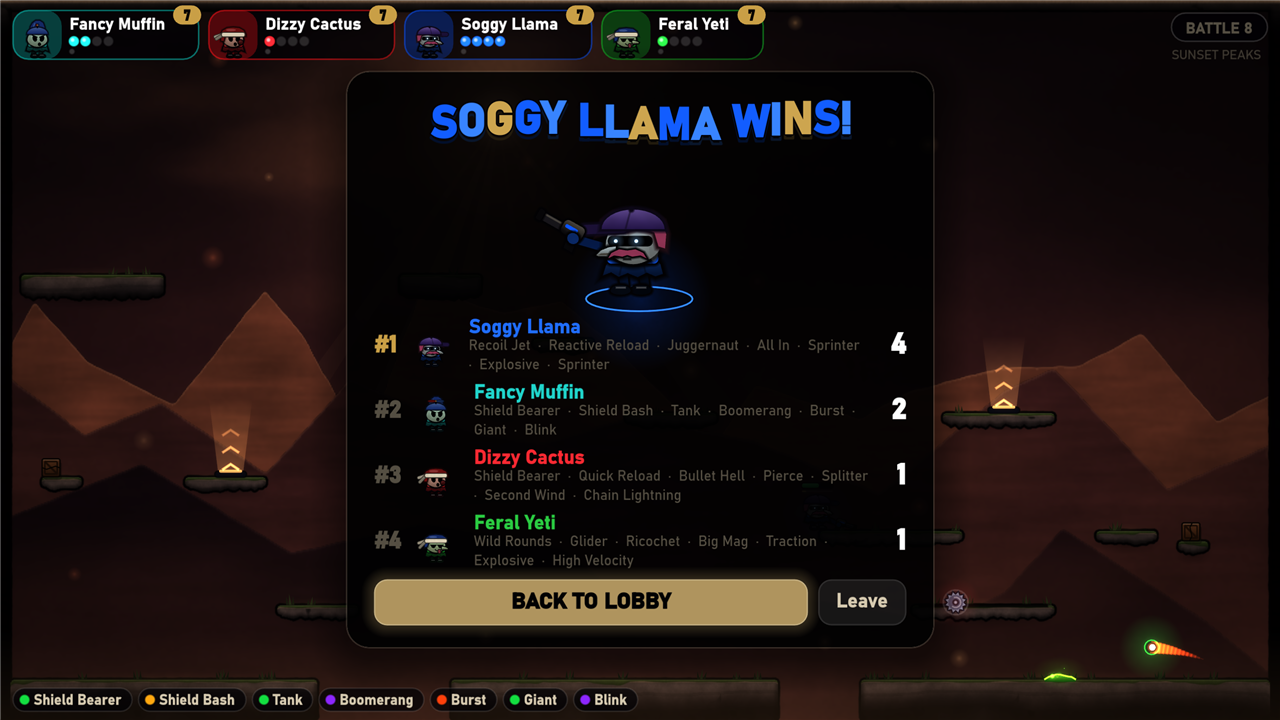
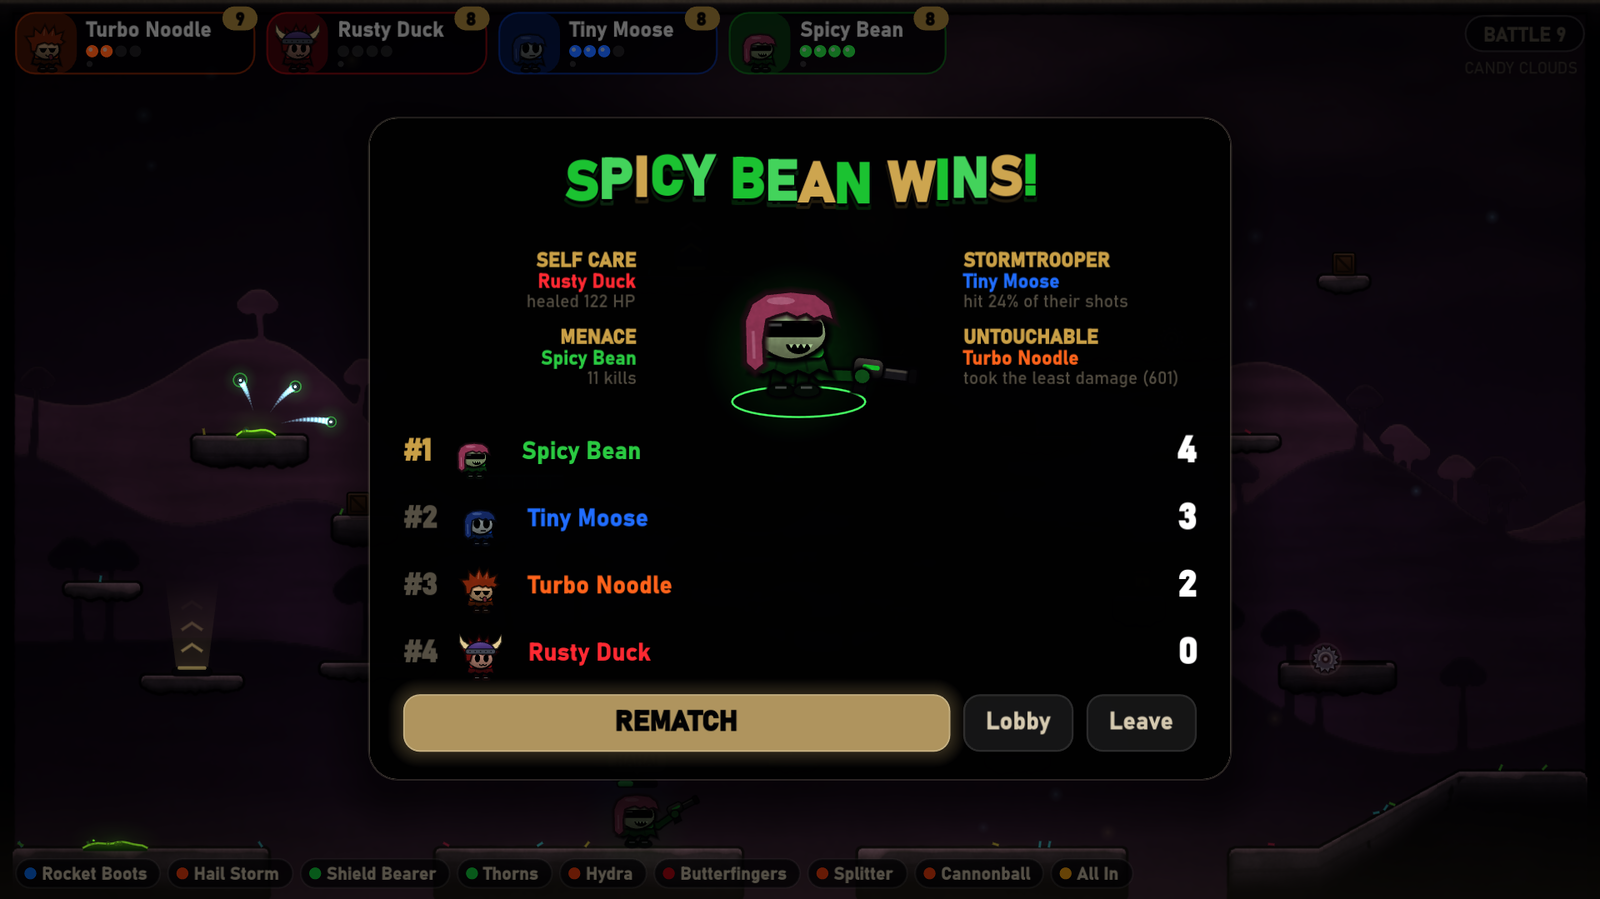
Refresh the README media: new gallery with kill cam, game modes, cursed deal and lobby

diff --git a/README.md b/README.md
@@ -3,16 +3,22 @@
 A ROUNDS-style 2–8 player platform shooter: lose a round, pick a card, come back stronger.
 Godot 4.7 (.NET / C#), LAN or direct-IP multiplayer, bots, procedurally generated themed arenas, and effects that get flashier the more cards you hold.
 
-<p align="center"><img src="docs/media/chaos.gif" alt="Four players trading homing, bouncing and exploding shots late in a match" width="720"></p>
+<p align="center"><img src="docs/media/chaos.gif" alt="Four players trading split, bouncing and exploding shots late in a match in Candy Clouds" width="720"></p>
 
 | | |
 |---|---|
-| <img src="docs/media/battle.gif" alt="An early battle in the Deep Reef arena"> | <img src="docs/media/card-pick.gif" alt="Picking a card after losing a round"> |
-| Every battle is on a freshly generated arena, in one of several themes. | Lose a round, pick a card. They stack, and your shots get flashier the more you hold. |
+| <img src="docs/media/battle.gif" alt="A battle starting in Toxic Grove, with the YOU marker over your character"> | <img src="docs/media/card-pick.gif" alt="Picking a card after losing a round, with a cursed deal on the right"> |
+| Every battle is on a freshly generated arena, in one of ten themes. Rings and a YOU arrow show where you start. | Lose a round, pick a card. They stack, and your shots get flashier the more you hold. |
 | <img src="docs/media/frost-bite.png" alt="A battle in the Frost Bite arena"> | <img src="docs/media/stats-hover.png" alt="Hovering a player chip shows their cards and stats"> |
 | Block to stop a shot. Block cards let you reflect, heal or bash. | Hover any player to see their cards and how they changed their stats. |
-| <img src="docs/media/sunset-peaks.png" alt="A chaotic late-match fight in Sunset Peaks"> | <img src="docs/media/match-over.png" alt="The match-over screen with every player's cards"> |
-| Late in a match, most shots split, bounce or explode. | The first to win enough rounds takes the match. |
+| <img src="docs/media/kill-cam.gif" alt="The kill cam replaying a double kill in slow motion"> | <img src="docs/media/cursed-deal.png" alt="Taking a cursed deal: the rare Hydra card chained to the Butterfingers curse"> |
+| The final kill of every battle replays in slow motion. | Rare cards, and cursed deals that bundle one with a curse. |
+| <img src="docs/media/king-of-the-hill.gif" alt="King of the Hill: players fighting over the glowing zone in Neon Night"> | <img src="docs/media/capture-the-flag.gif" alt="Capture the Flag, 3v3 in Toxic Grove"> |
+| King of the Hill: hold the zone alone to win. | Capture the Flag in 2v2, 3v3 or 4v4. |
+| <img src="docs/media/headhunter.gif" alt="Headhunter: everyone hunts the crowned match leader"> | <img src="docs/media/lobby.png" alt="The lobby: players on the left, match settings on the right"> |
+| Headhunter: take out the crowned leader to win on the spot. | Up to 8 players, humans and bots in any mix, over LAN or the internet. |
+| <img src="docs/media/deep-reef.png" alt="A late-match fight in Deep Reef with an explosion and a block"> | <img src="docs/media/match-over.png" alt="The match-over screen with awards and standings"> |
+| Late in a match, most shots split, bounce or explode. | The first to win enough rounds takes the match, and awards go round. |
 
 ## Download and play
 
@@ -300,7 +306,8 @@ GODOT=".../Godot_v4.7.2-stable_mono_win64_console.exe"
 "$GODOT" --path godot -- --crosshairshots=C:/tmp/shots                 # the crosshair at several ammo/reload states over every arena theme
 "$GODOT" --path godot --fixed-fps 60 -- --autotest --bloom=100         # override the saved bloom (0-100) for one run, not saved
 "$GODOT" --path godot -- --shots=C:/tmp/shots --terrainshots           # one battle per layout style and theme on its hilliest seed
-"$GODOT" --path godot --fixed-fps 60 -- --readmeshots --shots=C:/tmp/shots  # the README media: a full match with generated names, a GIF + screenshot per battle and card pick (docs/media)
+"$GODOT" --path godot --fixed-fps 60 -- --readmeshots --shots=C:/tmp/shots  # the README media: a full match with generated names, a GIF + screenshot per battle and card pick, the first kill cams (docs/media)
+"$GODOT" --path godot --write-movie C:/tmp/match.avi -- --videomatch --focuslog=C:/tmp/match.focus  # records a full 6-player match (lobby to match-over) for a video; the focus log says where the action is each frame, for a portrait crop
 "$GODOT" --headless --path godot --fixed-fps 60 -- --autotest --carddir=C:/tmp/cards --cards=1000  # load custom cards from another folder
 ```
 `--autotest`, `--autohost` and `--autojoin` also switch some cards off in the card pool and fail if a pick ever offers one; the client checks that it received the host's list.
